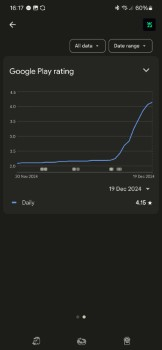
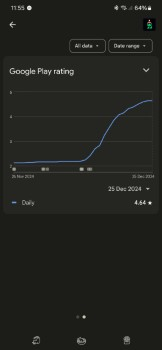
Publish rating post

diff --git a/_posts/2024-12-26-play-store-rating-prompt.md b/_posts/2024-12-26-play-store-rating-prompt.md
@@ -1,5 +1,5 @@
 ---
-title: Rapidly improving Play Store rating with an Android in-app review prompt helper (from 2.0 to 4.3 in 9 days!)
+title: Rapidly improving Play Store rating with an Android in-app review prompt helper (from 2.2 to 4.7 in 2 weeks!)
 image: /assets/images/banners/rating-browser.png
 tags:
   - Android
@@ -7,17 +7,17 @@ tags:
   - Kotlin
 ---
 
-I recently worked on an app that had been rated between 1 and 2 stars for months, despite no major issues. The solution? In-app rating prompts!
+I recently worked on an app, Seatfrog, that had been rated between 1 and 2 stars for months, despite no major issues. The solution? In-app rating prompts!
 
 All code in this article [is available as a GitHub Gist](https://gist.github.com/JakeSteam/c09c7bd980095a8a26649419d49d393e).
 
 ## Play Store Rating
 
-Like a lot of people, I rely on an app's Play Store rating as a rough indicator of quality / trustworthiness. Typically, anything below 4 stars needs a closer look, but above is probably fine. Despite this, the app I spend most of my time on was rated 2.0! Time to fix that.
+Like a lot of people, I rely on an app's Play Store rating as a rough indicator of quality / trustworthiness. Typically, anything below 4 stars needs a closer look, but above is probably fine. Despite this, the app I spend most of my time on was rated around 2.0! Time to fix that.
 
 ### Why was the rating so low?
 
-Historically, the app had a number of pretty severe problems. This included features not working, instability, unresponsive UI, etc. All of this resulted in an abysmal **rating of 1.4 in February 2024**.
+Historically, the app previously had a number of pretty severe problems. This included features not working, instability, unresponsive UI, etc. All of this resulted in an abysmal **rating of 1.4 in February 2024**.
 
 Since the app typically received just 2 - 5 reviews a week, almost all were from unhappy customers!
 
@@ -37,9 +37,9 @@ Looking at a chart of number of ratings over the past 3 months explains what hap
 
 [![](/assets/images/2024/rating-perday.png)](/assets/images/2024/rating-perday.png)
 
-With a regular release schedule, the per-version average rating can also be used to check which is responsible for the flood of reviews. It might be the version with at least 30x as many reviews as any other!
+With a regular release schedule, the per-version average rating can also be used to check which is responsible for the flood of reviews. It might be the version with at least 40x as many reviews as any other!
 
-[![](/assets/images/2024/rating-perversion.png)](/assets/images/2024/rating-perversion.png)
+[![](/assets/images/2024/rating-per-version.png)](/assets/images/2024/rating-per-version.png)
 
 ### How was the rating improved?
 
@@ -254,9 +254,9 @@ fun onLookAtMyTicket(navigation: () -> Unit) {
 
 ### How to test
 
-Similar to testing whilst [implementing Google's force upgrade library](/googles-force-update-android-app-library/), this can't be tested easily on your local machine, and must be obtained via the Google Play Store.
+Similar to testing whilst [implementing Google's force upgrade library](/googles-force-update-android-app-library/), this can't be tested easily on your local machine, and the app must be installed via the Google Play Store.
 
-Thankfully, it's far easier to test than force upgrade! Note that due to the "black box" of the library, you might not see the prompt despite following all the steps. Additionally, once you've seen _one_ prompt, you likely won't see any others.
+Thankfully, it's far easier to test than force upgrade! Note that due to the "black box" of the library, you might not see the prompt despite following all the steps. Additionally, once you've seen _one_ prompt, you might not see any others for a few weeks.
 
 1. Prepare a build, and upload it to Google Play Console internal app sharing.
 2. Uninstall your app from your device.
@@ -277,15 +277,15 @@ _Note: The oddly zoomed-in app icon happens on my device for all prod apps, pres
 
 ### Monitoring store rating
 
-To keep an eye on my app's rating, I checked into the console once or twice a day.
+To keep an eye on my app's rating throughout this process, I checked the Google Play Console once or twice a day.
 
 Whilst [there is a Google Play Console app](https://play.google.com/store/apps/details?id=com.google.android.apps.playconsole) (which is rated 2.8!), and it has attractive data visualisations, the data updates are painfully slow. The data was typically 12 hours _behind_ Google Play Console web, which is _itself_ 12-24 hours behind!
 
-The main number is the "Default Google Play rating" on the "Ratings" screen:
+The main number is the "Default Google Play rating" on the "Ratings" screen. This will show your overall Google Play rating, and should be treated as your source of truth. However, each individual device will see a slightly different score (due to OS, device type, etc), so there'll be a slight spread around this value.
 
 [![](/assets/images/2024/rating-ratingsummary.png)](/assets/images/2024/rating-ratingsummary.png)
 
-However, the app is the only way to see charts of Google Play rating and many other KPIs (Key Performance Indicators) over time:
+Currently, the Google Play Console app is the only way to see charts of Google Play rating and many other KPIs (Key Performance Indicators) over time:
 
 |                                                Overview                                                 |                                             Specific metric                                             |                                                KPI list                                                 |
 | :-----------------------------------------------------------------------------------------------------: | :-----------------------------------------------------------------------------------------------------: | :-----------------------------------------------------------------------------------------------------: |
@@ -309,14 +309,19 @@ As such, I had to manually keep a note each day of the rating! Once the version 
 - 18/12/24: **4.082**
 - 19/12/24: **4.145**
 - 20/12/24: **4.317**
+- 21/12/24: **4.390**
+- 22/12/24: **4.498**
+- 23/12/24: **4.589**
+- 24/12/24: **4.638**
+- 25/12/24: **4.667** 🎄
 
-An increase from 2.2 to 4.3 in just 9 days is absolutely amazing, and far exceeded my expectations for this project!
+An increase from 2.2 to 4.7 in exactly 2 weeks is absolutely amazing (and an excellent Christmas present), and far exceeded my expectations for this project!
 
 ### Cached rating
 
-A rapid rise in rating for a well-established app is pretty unusual, so other services will take multiple weeks to notice this rating has changed.
+A rapid rise in rating for a well-established app is pretty unusual, so other services will take multiple weeks or months to notice this rating has changed.
 
-For example, whilst the store itself currently shows 4.3 for Seatfrog, Google Search shows a rating from around July!
+For example, whilst the store itself currently shows a rating of 4.7 for Seatfrog, Google Search results show a far lower rating from around July!
 
 [![](/assets/images/2024/rating-googleresults.png)](/assets/images/2024/rating-googleresults.png)
 
@@ -324,12 +329,12 @@ For example, whilst the store itself currently shows 4.3 for Seatfrog, Google Se
 
 Adding an in-app review rating prompt had an unbelievably rapid improvement to my app's rating.
 
-I'd absolutely recommend adding a prompt to pretty much any app, with the resulting rating essentially depending on how well you pick your triggers. If you prompt whilst the user is frustrated, putting a pop-up in their face is going to make things even worse!
+I'd absolutely recommend adding a prompt to pretty much any app, with the resulting rating score essentially depending on how well you pick your triggers. If you prompt whilst the user is frustrated, putting a pop-up in their face is going to make things even worse!
 
-I see in-app review prompts pretty regularly for other apps, however they are usually implemented in a seemingly untargeted way. For example, 2 I saw recently were obviously triggered by the number of times the app has been opened, when I didn't have a particular positive sentiment and was trying to complete a task.
+I see in-app review prompts pretty regularly for other apps, however they are usually implemented in a seemingly untargeted way. For example, 2 I saw recently were obviously triggered by the number of times the app has been opened, when I didn't have a particularly positive sentiment and was just trying to complete a task. As such, I dismissed instead of rating.
 
 Whilst I did begin working on an "after X days" prompt, I eventually decided a smarter implementation was prompting _less often_ but in a _more targeted_ way. It seems to have been the correct call, with almost every review being 5-star.
 
-As I write the first draft of this article, the app is sitting around 4.3. However, the rise is so rapid that I'm going to hold off until it reaches the expected final value (based on average rating) of 4.8. Fingers crossed!
+As I write the first draft of this article, the app is sitting around 4.3, and still rising by 0.1 - 0.2 per day, expected to end up at 4.8 (average rating is 4.825). The next rating goal? 4.9!
 
 One last time, all code used is available on GitHub: <https://gist.github.com/JakeSteam/c09c7bd980095a8a26649419d49d393e>
